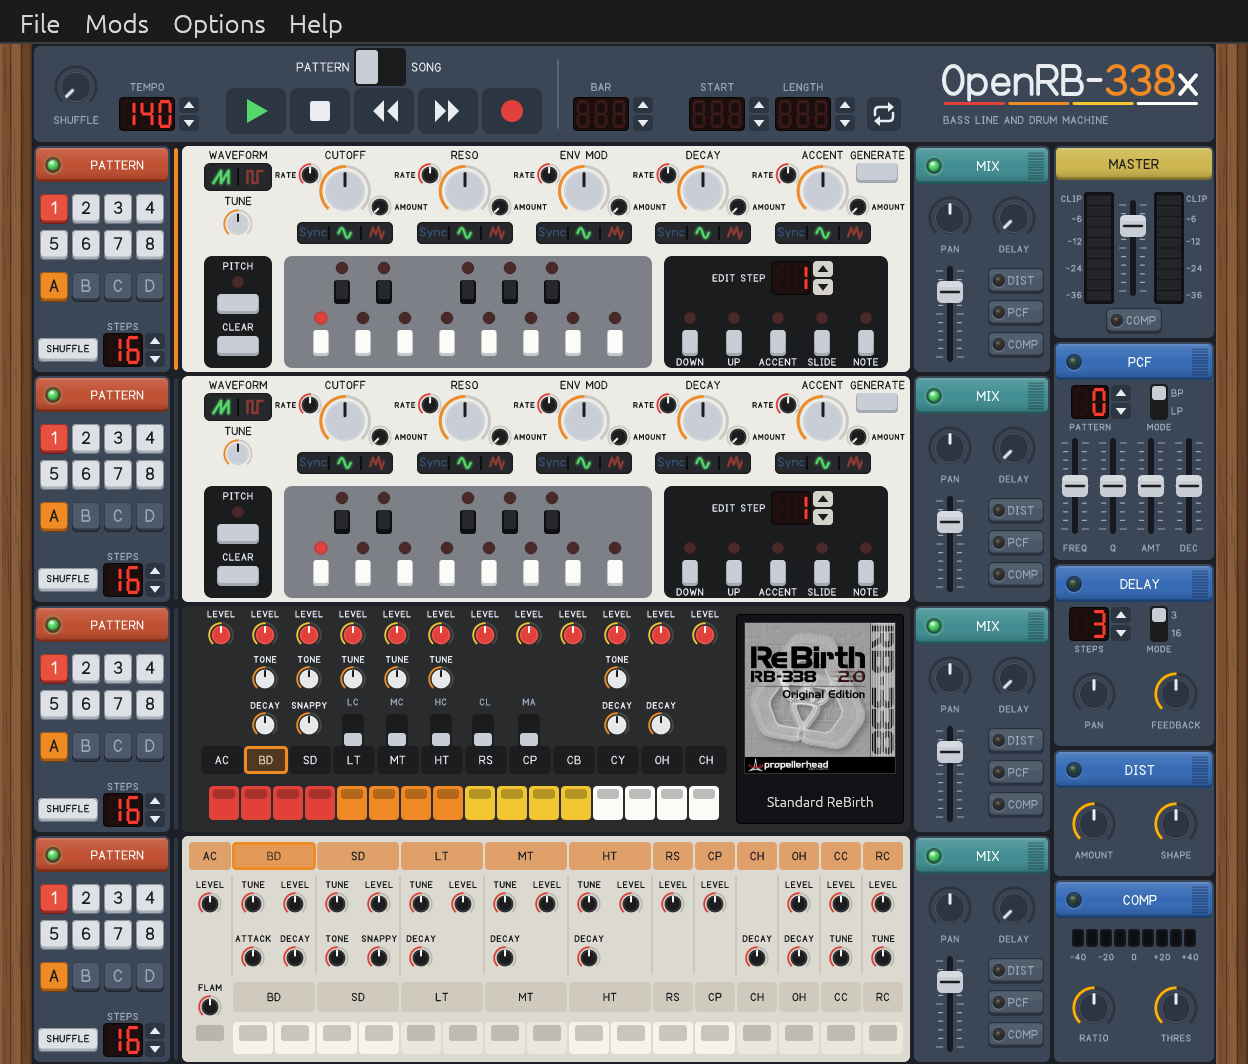
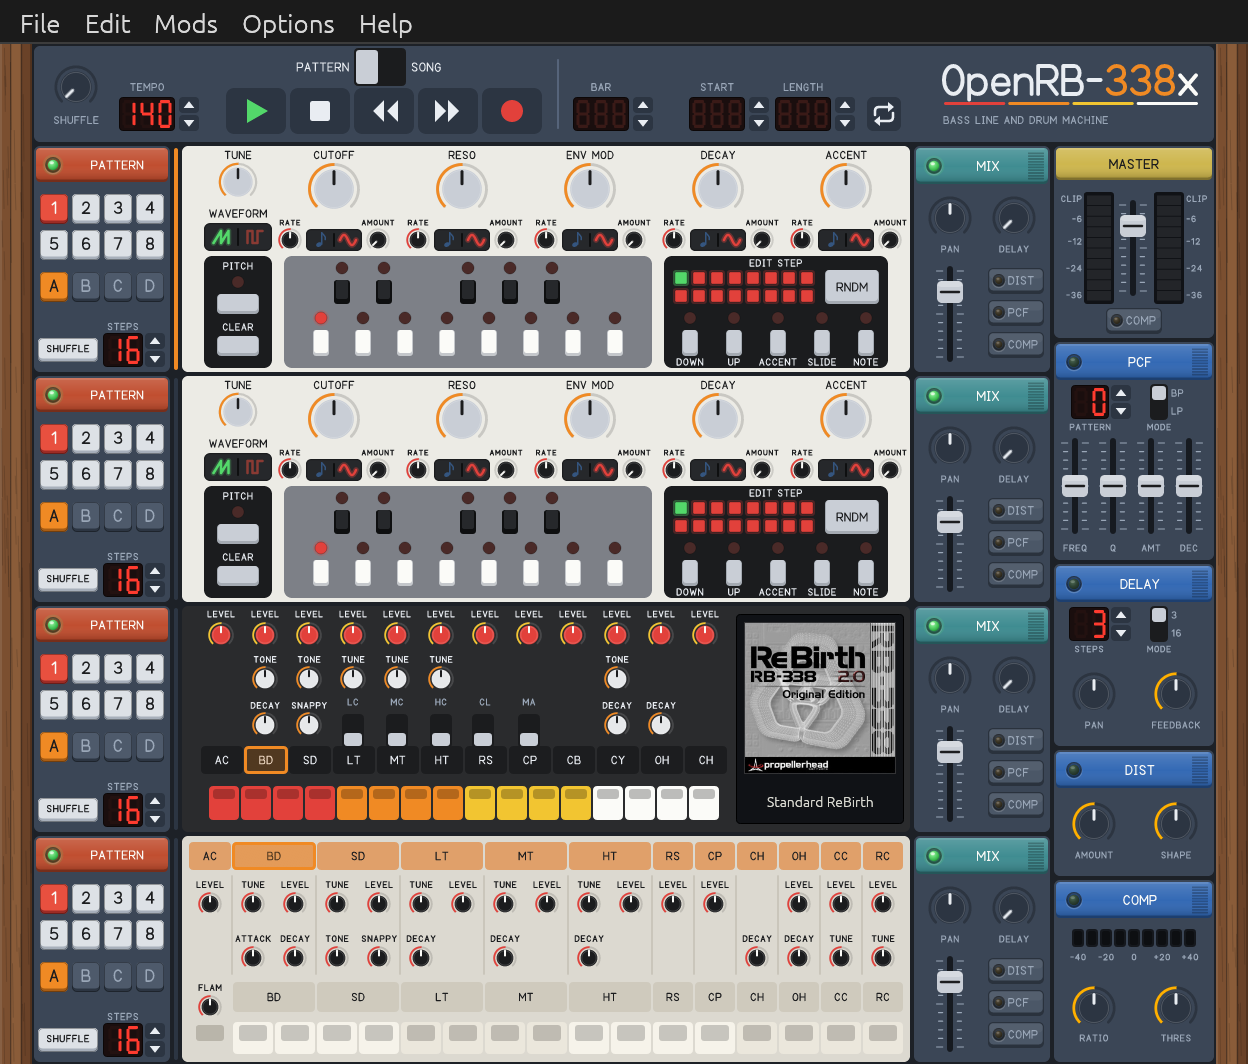
docs: new README screenshot

Changed region(s): [[0.1562, 0.1241, 0.7188, 0.3102], [0.1562, 0.3412, 0.7188, 0.5273], [0.0625, 0.0, 0.3438, 0.031]]

diff --git a/assets/README.md b/assets/README.md
@@ -8,7 +8,7 @@
 - `readme/`: the README's pictures (CI ignores this folder, `.github/workflows/ci.yml`):
   - `logo.svg`: the README's logo, the OpenRB-338x wordmark: `ui/logo.svg` on the panel's
     slate (#3b4656) with rounded corners.
-  - `screenshot.png`: the README's screenshot of OpenRB-338x on macOS (2026-11-14, `--demo
+  - `screenshot.png`: the README's screenshot of OpenRB-338x on macOS (2026-11-14, step LEDs and LFO row, `--demo
     --size 624x510 --ppp 2`).
 
 ## Standard.rbm
